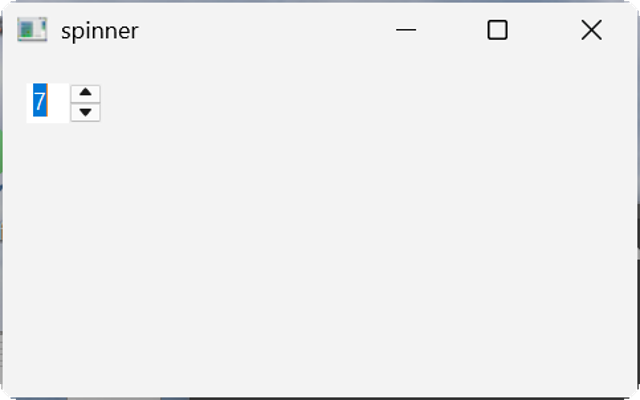
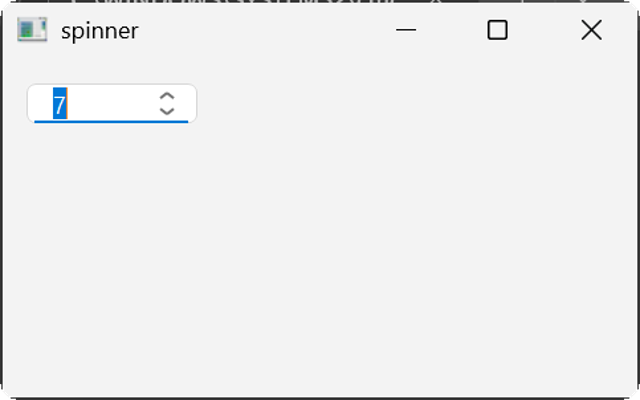
fluent: Spinner in the WinUI 3 NumberBox look with compact chevron spin buttons

Changed region(s): [[0.0, 0.0, 1.0, 0.96], [0.0, 0.99, 0.3125, 1.0]]

diff --git a/internal/fluent/spinner.go b/internal/fluent/spinner.go
@@ -11,27 +11,210 @@ import (
 
 var pFindWindowEx = user32.NewProc("FindWindowExW")
 
-const emSetRectMsg = 0xB3
+const (
+	spinInset  = 4  // dips between the buttons and the frame
+	spinButton = 22 // dips, width of the spin buttons
+	spinGap    = 4  // dips between the text and the buttons
 
-// SpinnerCenter centres the line in the edit of a taller Spinner; the edit resets its formatting
-// rectangle on resize, hence the listener.
-func SpinnerCenter(s *swt.Spinner) {
-	center := func() {
-		sh := uintptr(s.Handle)
-		class, _ := syscall.UTF16PtrFromString("Edit")
-		e := call(pFindWindowEx, sh, 0, uintptr(unsafe.Pointer(class)), 0)
-		if e == 0 {
-			return
-		}
-		var cr rect
-		call(pGetClientRect, e, uintptr(unsafe.Pointer(&cr)))
-		top := (cr.bottom - textHeight(e)) / 2
-		if top <= 0 {
-			return
-		}
-		cr.top += top
-		call(pSendMessage, e, emSetRectMsg, 0, uintptr(unsafe.Pointer(&cr)))
+	spinUp, spinDown = 1, 2
+
+	wmSetFont       = 0x30
+	wmLButtonDblClk = 0x203
+
+	// SpinnerExtra is the width in dips the framed field needs beyond the native Spinner.
+	SpinnerExtra = 24
+)
+
+// spinnerLook is the state of a Spinner in the NumberBox look: the edit spans the whole control and
+// paints the Text frame, the up-down control floats over its right end as two chevron buttons.
+type spinnerLook struct {
+	s         *swt.Spinner
+	edit, ud  uintptr
+	hot, down int // spinUp or spinDown, 0 for none
+}
+
+func child(parent uintptr, class string) uintptr {
+	c, _ := syscall.UTF16PtrFromString(class)
+	return call(pFindWindowEx, parent, 0, uintptr(unsafe.Pointer(c)), 0)
+}
+
+type modify func()
+
+func (m modify) ModifyText(*swt.ModifyEvent) { m() }
+
+// Spinner gives s the WinUI 3 NumberBox look with compact spin buttons. The edit and the up-down
+// control stay native; only the frame and the buttons are painted.
+func Spinner(s *swt.Spinner) {
+	sh := uintptr(s.Handle)
+	l := &spinnerLook{s: s, edit: child(sh, "Edit"), ud: child(sh, "msctls_updown32")}
+	if sh == 0 || l.edit == 0 || l.ud == 0 {
+		return
 	}
-	s.AddControlListener(swt.ControlListenerControlResizedAdapter(func(*swt.ControlEvent) { center() }))
-	center()
+	setStyle(sh, style(sh)&^wsBorder)
+	setExStyle(sh, exStyle(sh)&^wsExEdge)
+	if !s.HasCustomBackground() {
+		inputColors(&s.Control)
+	}
+	attach(l.edit, l.editProc)
+	attach(l.ud, l.udProc)
+	chain(sh, l.proc)
+	frameChanged(sh)
+	l.layout(sh)
+	frameChanged(l.edit)
+	s.AddModifyListener(modify(func() { call(pInvalidateRect, l.ud, 0, 0) }))
+}
+
+func spinGeometry(dpi int) (inset, button, gap int32) {
+	return px(spinInset, dpi), px(spinButton, dpi), px(spinGap, dpi)
+}
+
+// layout stretches the edit over the control and puts the buttons in its right end; SWT lays them out
+// side by side on every resize.
+func (l *spinnerLook) layout(hwnd uintptr) {
+	var cr rect
+	call(pGetClientRect, hwnd, uintptr(unsafe.Pointer(&cr)))
+	inset, button, _ := spinGeometry(dpiOf(hwnd))
+	vins := min(inset, cr.bottom/8) // a short field keeps room for two chevrons
+	// An even height keeps the halves the control splits itself into equal to the painted ones.
+	bh := (cr.bottom - 2*vins) &^ 1
+	if bh < 2 {
+		bh = cr.bottom &^ 1
+	}
+	const flags = swpNoZOrder | swpNoActivate
+	call(pSetWindowPos, l.edit, 0, 0, 0, uintptr(cr.right), uintptr(cr.bottom), flags)
+	call(pSetWindowPos, l.ud, 0, uintptr(cr.right-inset-button), uintptr((cr.bottom-bh)/2), uintptr(button), uintptr(bh), flags)
+}
+
+func (l *spinnerLook) proc(hwnd, msg, wp, lp uintptr, def func() uintptr) (uintptr, bool) {
+	switch msg {
+	case wmSize, wmSetFont:
+		r := def()
+		l.layout(hwnd)
+		frameChanged(l.edit)
+		return r, true
+	}
+	return 0, false
+}
+
+func (l *spinnerLook) editProc(hwnd, msg, wp, lp uintptr, def func() uintptr) (uintptr, bool) {
+	switch msg {
+	case wmNCCalcSize:
+		r := def()
+		rc := (*rect)(ptr(lp))
+		dpi := dpiOf(hwnd)
+		inset, button, gap := spinGeometry(dpi)
+		rc.left += px(10, dpi)
+		rc.right -= inset + button + gap
+		top, bottom := px(2, dpi), px(2, dpi)
+		if extra := (rc.bottom - rc.top) - textHeight(hwnd); extra > top+bottom {
+			top = extra / 2
+			bottom = extra - top
+		}
+		rc.top += top
+		rc.bottom -= bottom
+		return r, true
+	case wmNCPaint:
+		r := def()
+		paintInput(hwnd, &l.s.Control)
+		return r, true
+	case wmSetFocus, wmKillFocus, wmEnable:
+		r := def()
+		redrawFrame(hwnd)
+		call(pInvalidateRect, l.ud, 0, 0)
+		return r, true
+	}
+	return 0, false
+}
+
+func (l *spinnerLook) udProc(hwnd, msg, wp, lp uintptr, def func() uintptr) (uintptr, bool) {
+	half := func() int {
+		var cr rect
+		call(pGetClientRect, hwnd, uintptr(unsafe.Pointer(&cr)))
+		if int32(int16(lp>>16)) < cr.bottom/2 {
+			return spinUp
+		}
+		return spinDown
+	}
+	switch msg {
+	case wmEraseBkgnd:
+		return 1, true
+	case wmPaint:
+		bufferedPaint(hwnd, func(hdc uintptr, w, h int32) { l.draw(hwnd, hdc, w, h) })
+		return 0, true
+	case wmMouseMove:
+		if l.hot == 0 {
+			tme := struct {
+				size, flags uint32
+				hwnd        uintptr
+				hover       uint32
+			}{24, tmeLeave, hwnd, 0}
+			call(pTrackMouseEvent, uintptr(unsafe.Pointer(&tme)))
+		}
+		if h := half(); h != l.hot {
+			l.hot = h
+			call(pInvalidateRect, hwnd, 0, 0)
+		}
+	case wmMouseLeave:
+		l.hot = 0
+		call(pInvalidateRect, hwnd, 0, 0)
+	case wmLButtonDown, wmLButtonDblClk:
+		l.down = half()
+		r := def()
+		call(pInvalidateRect, hwnd, 0, 0)
+		return r, true
+	case wmLButtonUp, wmCaptureChanged:
+		r := def()
+		l.down = 0
+		call(pInvalidateRect, hwnd, 0, 0)
+		return r, true
+	case wmEnable:
+		r := def()
+		call(pInvalidateRect, hwnd, 0, 0)
+		return r, true
+	}
+	return 0, false
+}
+
+func (l *spinnerLook) draw(hwnd, hdc uintptr, w, h int32) {
+	d := l.s.GetDisplay()
+	pal := Current(d)
+	dpi := dpiOf(hwnd)
+	bg := parentBackground(&l.s.Control)
+	enabled := l.s.IsEnabled()
+	fill := pal.Fill
+	if !enabled {
+		fill = pal.Black.over(0.04, bg)
+	}
+	p := newPainter(d, hdc)
+	defer p.done()
+	p.fillRect(fill, 0, 0, w, h)
+
+	r := px(3, dpi)
+	sel, minV, maxV := l.s.GetSelection(), l.s.GetMinimum(), l.s.GetMaximum()
+	wrap := l.s.GetStyle()&swt.WRAP != 0
+	for _, dir := range []int{spinUp, spinDown} {
+		y0, y1 := int32(0), h/2
+		if dir == spinDown {
+			y0, y1 = h/2, h
+		}
+		active := enabled && (wrap || dir == spinUp && sel < maxV || dir == spinDown && sel > minV)
+		glyph := pal.Text.over(0.61, fill)
+		switch {
+		case !active:
+			glyph = pal.Black.over(0.36, fill)
+		case l.down == dir:
+			glyph = pal.Text.over(0.45, fill)
+			p.fillRound(pal.Black.over(0.04, fill), 0, y0, w, y1-y0, r)
+		case l.hot == dir && l.down == 0:
+			p.fillRound(pal.Black.over(0.06, fill), 0, y0, w, y1-y0, r)
+		}
+		cx, cy, hw := w/2, (y0+y1)/2, px(3.5, dpi)
+		lw := px(1, dpi)
+		a, b := cy+hw/2, cy-hw/2
+		if dir == spinDown {
+			a, b = b, a
+		}
+		p.line(glyph, cx-hw, a, cx, b, lw)
+		p.line(glyph, cx, b, cx+hw, a, lw)
+	}
 }

diff --git a/internal/fluent/text.go b/internal/fluent/text.go
@@ -68,12 +68,14 @@ func (f *textFrame) vpad(hwnd uintptr) int32 {
 }
 
 // applyColors puts the theme's input colours on a Text that has none of its own.
-func (f *textFrame) applyColors() {
-	pal := Current(f.t.GetDisplay())
+func (f *textFrame) applyColors() { inputColors(&f.t.Control) }
+
+func inputColors(c *swt.Control) {
+	pal := Current(c.GetDisplay())
 	fill := pal.Fill
-	f.t.SetBackgroundWithColor(swt.NewColorRedGreenBlue(int32(fill.R), int32(fill.G), int32(fill.B)))
+	c.SetBackgroundWithColor(swt.NewColorRedGreenBlue(int32(fill.R), int32(fill.G), int32(fill.B)))
 	if pal.Dark {
-		f.t.SetForeground(swt.NewColorRedGreenBlue(int32(pal.Text.R), int32(pal.Text.G), int32(pal.Text.B)))
+		c.SetForeground(swt.NewColorRedGreenBlue(int32(pal.Text.R), int32(pal.Text.G), int32(pal.Text.B)))
 	}
 }
 
@@ -131,7 +133,11 @@ func (f *textFrame) proc(hwnd, msg, wp, lp uintptr, def func() uintptr) (uintptr
 	return 0, false
 }
 
-func (f *textFrame) paint(hwnd uintptr) {
+func (f *textFrame) paint(hwnd uintptr) { paintInput(hwnd, &f.t.Control) }
+
+// paintInput paints the frame of the single-line edit hwnd, which belongs to the control c, in its
+// non-client area.
+func paintInput(hwnd uintptr, c *swt.Control) {
 	var wr, cr rect
 	call(pGetWindowRect, hwnd, uintptr(unsafe.Pointer(&wr)))
 	call(pGetClientRect, hwnd, uintptr(unsafe.Pointer(&cr)))
@@ -154,10 +160,10 @@ func (f *textFrame) paint(hwnd uintptr) {
 		call(pExcludeClipRect, hdc, uintptr(w)-sb, 0, uintptr(w), uintptr(h))
 	}
 
-	d := f.t.GetDisplay()
+	d := c.GetDisplay()
 	pal := Current(d)
-	enabled := f.t.IsEnabled()
-	bg := parentBackground(&f.t.Control)
+	enabled := c.IsEnabled()
+	bg := parentBackground(c)
 	fill := pal.Fill
 	if !enabled {
 		fill = pal.Black.over(0.04, bg)

diff --git a/fluent_windows.go b/fluent_windows.go
@@ -74,6 +74,12 @@ func fluentScroll(body *swt.Composite) { fluent.Background(body) }
 // Spacing.ControlHeight, like the Text; without App.SetDensity the heights stay the native ones.
 func controlHeight(opts []Option) []Option {
 	return append(opts[:len(opts):len(opts)], lateHook(func(w Widget) error {
+		if v, ok := w.(*SpinnerView); ok {
+			fluent.Spinner(v.s)
+			if wh, _, ok := sizeHints(&v.s.Control); ok && *wh == swt.DEFAULT {
+				*wh = int32(preferred(&v.s.Control).X) + fluent.SpinnerExtra
+			}
+		}
 		if ChosenDensity().Legacy() {
 			return nil
 		}
@@ -88,8 +94,6 @@ func controlHeight(opts []Option) []Option {
 			if v.b.GetStyle()&swt.PUSH == 0 {
 				return nil
 			}
-		case *SpinnerView:
-			fluent.SpinnerCenter(v.s)
 		case *DateTimeView:
 			if v.d.GetStyle()&swt.CALENDAR != 0 {
 				return nil
